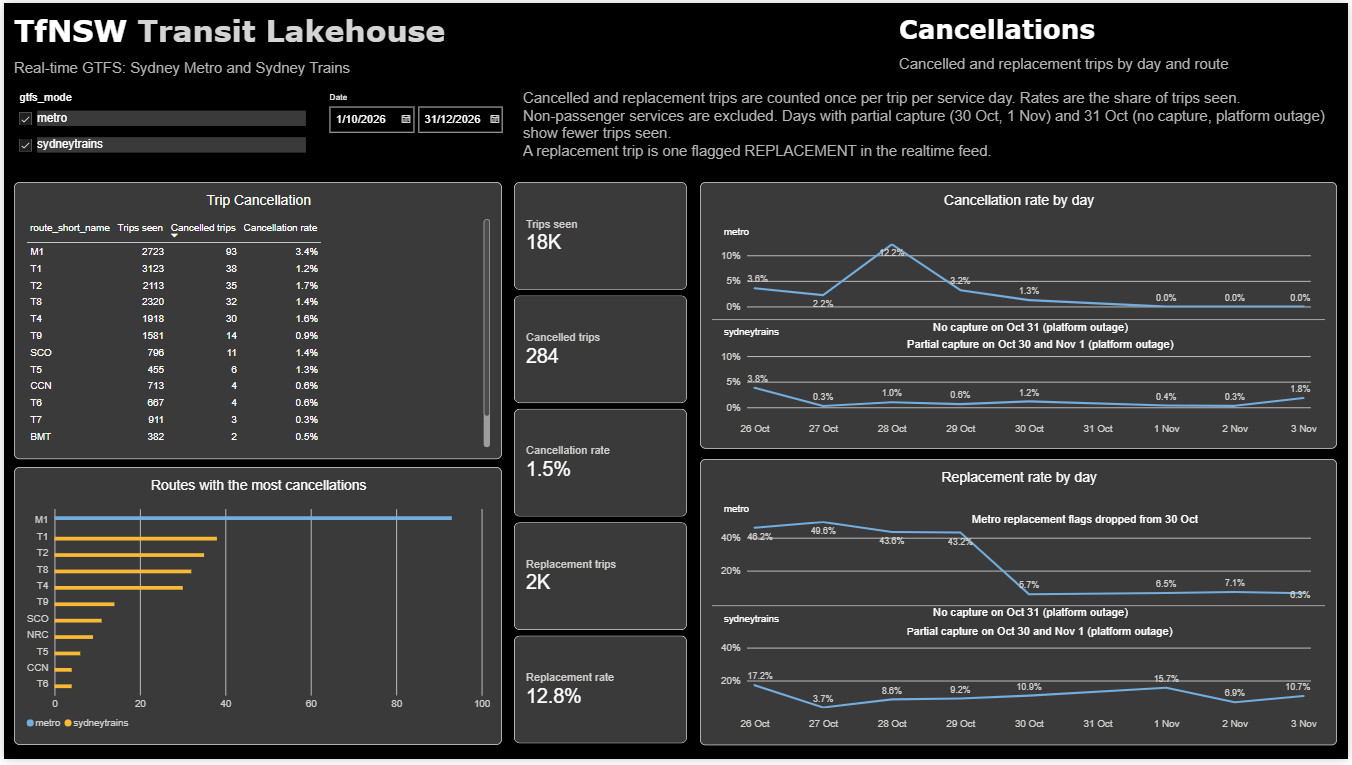
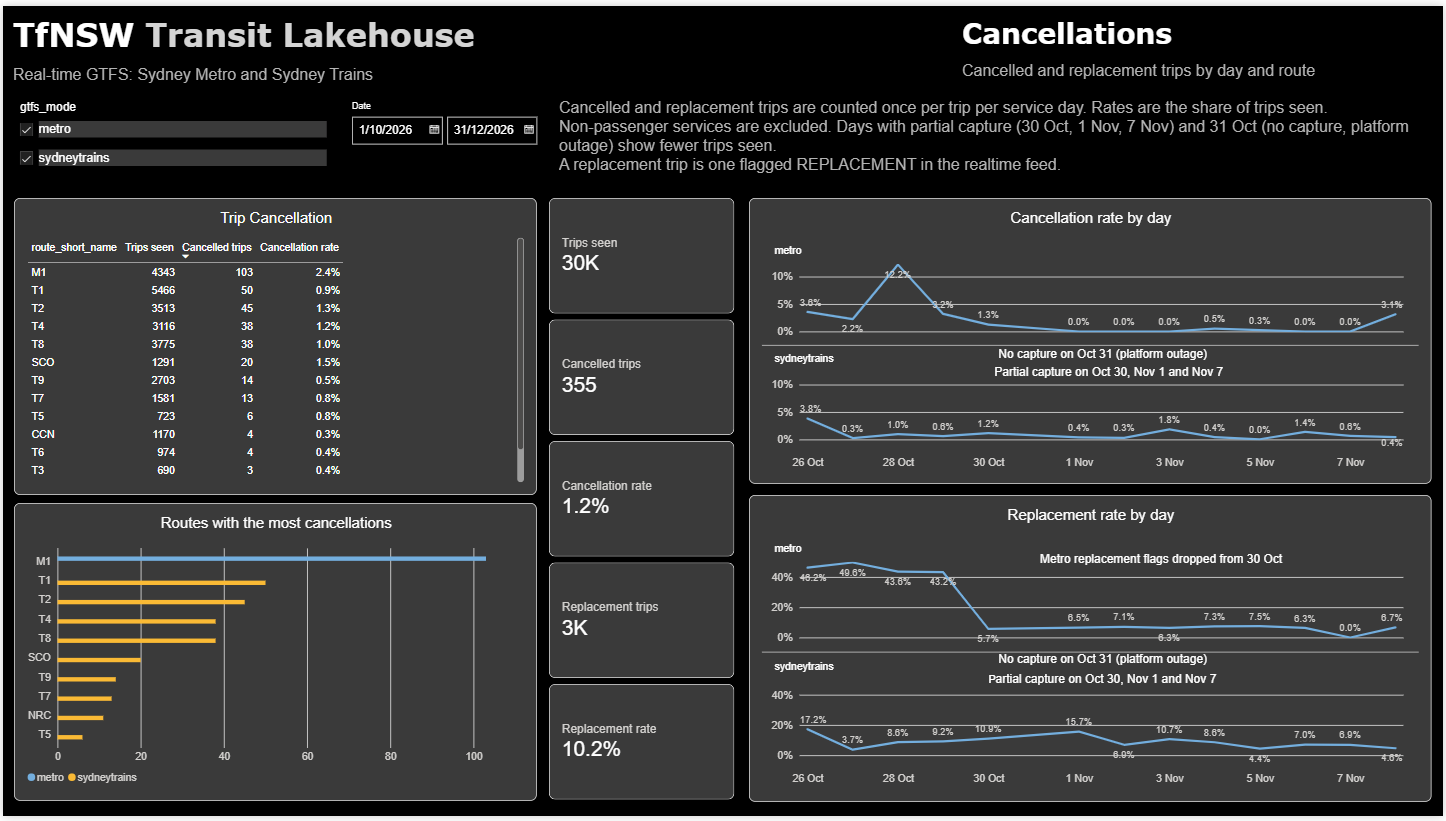
Update Power BI snapshots and data notes to Nov 8

diff --git a/README.md b/README.md
@@ -110,6 +110,10 @@ Things that went wrong on the way to a green `main`, and what they changed:
 4. **Unknown destinations that a rerun could not fix.** The dashboard showed 99–100% Unknown destination for Sydney Trains on Oct 29 – Nov 1. Route and stop resolution were fine (under 2% unresolved), so the join was not broken. The two timetable releases I had ingested shared no trip IDs (the Silver trip count was exactly the sum of both), and trip IDs change with each release. Gold resolves the headsign at processing time, so rows processed before their release was loaded kept a null headsign. A per-day check split the nulls into "trip not in the static table" and "trip found, headsign blank". After a full refresh of the Gold tables, Nov 2 fell to 1.8% Unknown and Nov 3 to 0.09%. Oct 29 – Nov 1 did not change, because those releases were never ingested. The static refresh is now scheduled daily at 21:30, ahead of the 22:00 process run.
 5. **A stale Bronze table failed an otherwise clean deploy.** The Bronze trip-update tables in dev, staging and prod predated the current schema. Because new and retyped columns are rescued, the new fields landed in `_rescued_data` and Silver failed with an unresolved column. The e2e tier caught it. The fix was to recreate the Bronze trip-update table and run a full refresh of the downstream pipeline.
 
+## Delta file layout
+
+Snapshotted Delta file layout across bronze, silver and gold after 13 days of live capture. Bronze trip updates had accumulated 26 small files (about 3 MB each); OPTIMIZE compacted it to 2 with no change in data size. At under 100 MB per table, I judged compaction and clustering benchmarks not justified at this size.
+
 ## Trade-offs and known gaps
 
 **Solo-build trade-offs**
@@ -130,8 +134,8 @@ Things that went wrong on the way to a green `main`, and what they changed:
 - Each realtime run writes once at the end, so a crash loses that run's polls.
 - Integration tests share the staging catalog, and their synthetic vehicles (the `TEST_V_CDC_` prefix) stay in staging Bronze.
 
-**Data limitations** (observed Oct 26 – Nov 3, 2026)
-- **Coverage is windowed.** Capture runs 11 hours a day, so a full day is 11 captured hours. No capture on Oct 31 (platform outage); Oct 30 and Nov 1 are partial days.
+**Data limitations** (observed Oct 26 – Nov 8, 2026)
+- **Coverage is windowed.** Capture runs 11 hours a day, so a full day is 11 captured hours. No capture on Oct 31 (platform outage); Oct 30, Nov 1 and Nov 7 are partial days.
 - **Destination depends on the timetable release.** Sydney Trains: Unknown on Oct 29 – Nov 1 (99–100%), 1.8% on Nov 2, 0.09% on Nov 3, and about 0.1% before Oct 29. Metro: Unknown on Oct 27–29 (100%), resolved on Oct 26 and from Oct 30.
 - **Route and stop resolution is high.** Sydney Trains unresolved route is 0.7–1.8% a day and unresolved stop 0.0%. Metro is 0.0% for both.
 - **Sydney Trains scheduled times are sparse.** Arrival times are present on about 16–40% of stop updates, against about 95–97% for Metro, so headway regularity is Metro-only.
@@ -140,7 +144,7 @@ Things that went wrong on the way to a green `main`, and what they changed:
 - **Metro delay averages are rounded to 0.1 minute** in the route delay summary view.
 - **Sydney Trains mode includes intercity and regional services**, which is why the largest delay hotspots are regional stations.
 - **Metro replacement flags changed on Oct 30.** Trips flagged REPLACEMENT in the feed were about 43–50% of Metro trips on Oct 26–29 and about 6–7% from Oct 30. The cause has not been verified.
-- **Some vehicles have no resolved route.** In the last captured hour, 260 of 638 vehicles had no resolved route and are excluded from the route chart.
+- **Some vehicles have no resolved route.** In the last captured hour, 247 of 480 vehicles had no resolved route and are excluded from the route chart.
 
 ## Evolution
 
@@ -148,7 +152,7 @@ The original notebook-based Silver and Gold, the batch Bronze notebooks and thei
 
 ## Dashboard
 
-A Power BI report (Import mode) built on the Gold BI views. The snapshots show data from Oct 26 to Nov 3, 2026. It has six pages:
+A Power BI report (Import mode) built on the Gold BI views. The snapshots show data from Oct 26 to Nov 8, 2026. It has six pages:
 
 - **Data trust and coverage:** hours captured per day, whether each day is a full day, poll failure rate, field reliability by mode and day, and Metro stations served per day.
 
@@ -164,6 +168,7 @@ A Power BI report (Import mode) built on the Gold BI views. The snapshots show d
 
 ![Delays](docs/powerbi/delays.png)
 
+
 - **Cancellations:** cancelled and replacement trips by day and route.
 
 ![Cancellations](docs/powerbi/cancellations.png)
@@ -177,7 +182,6 @@ A Power BI report (Import mode) built on the Gold BI views. The snapshots show d
 - **Latest vehicle positions:** the latest known position of each vehicle in the last captured hour.
 
 ![Latest vehicle positions](docs/powerbi/latest-vehicle-positions.png)
-
 
 The report file is not published, because it embeds the workspace connection. `powerbi/` holds an earlier version of the dashboard (Sydney Trains only), which can be opened in Power BI Desktop without a Databricks connection, and its PDF snapshot.
 
